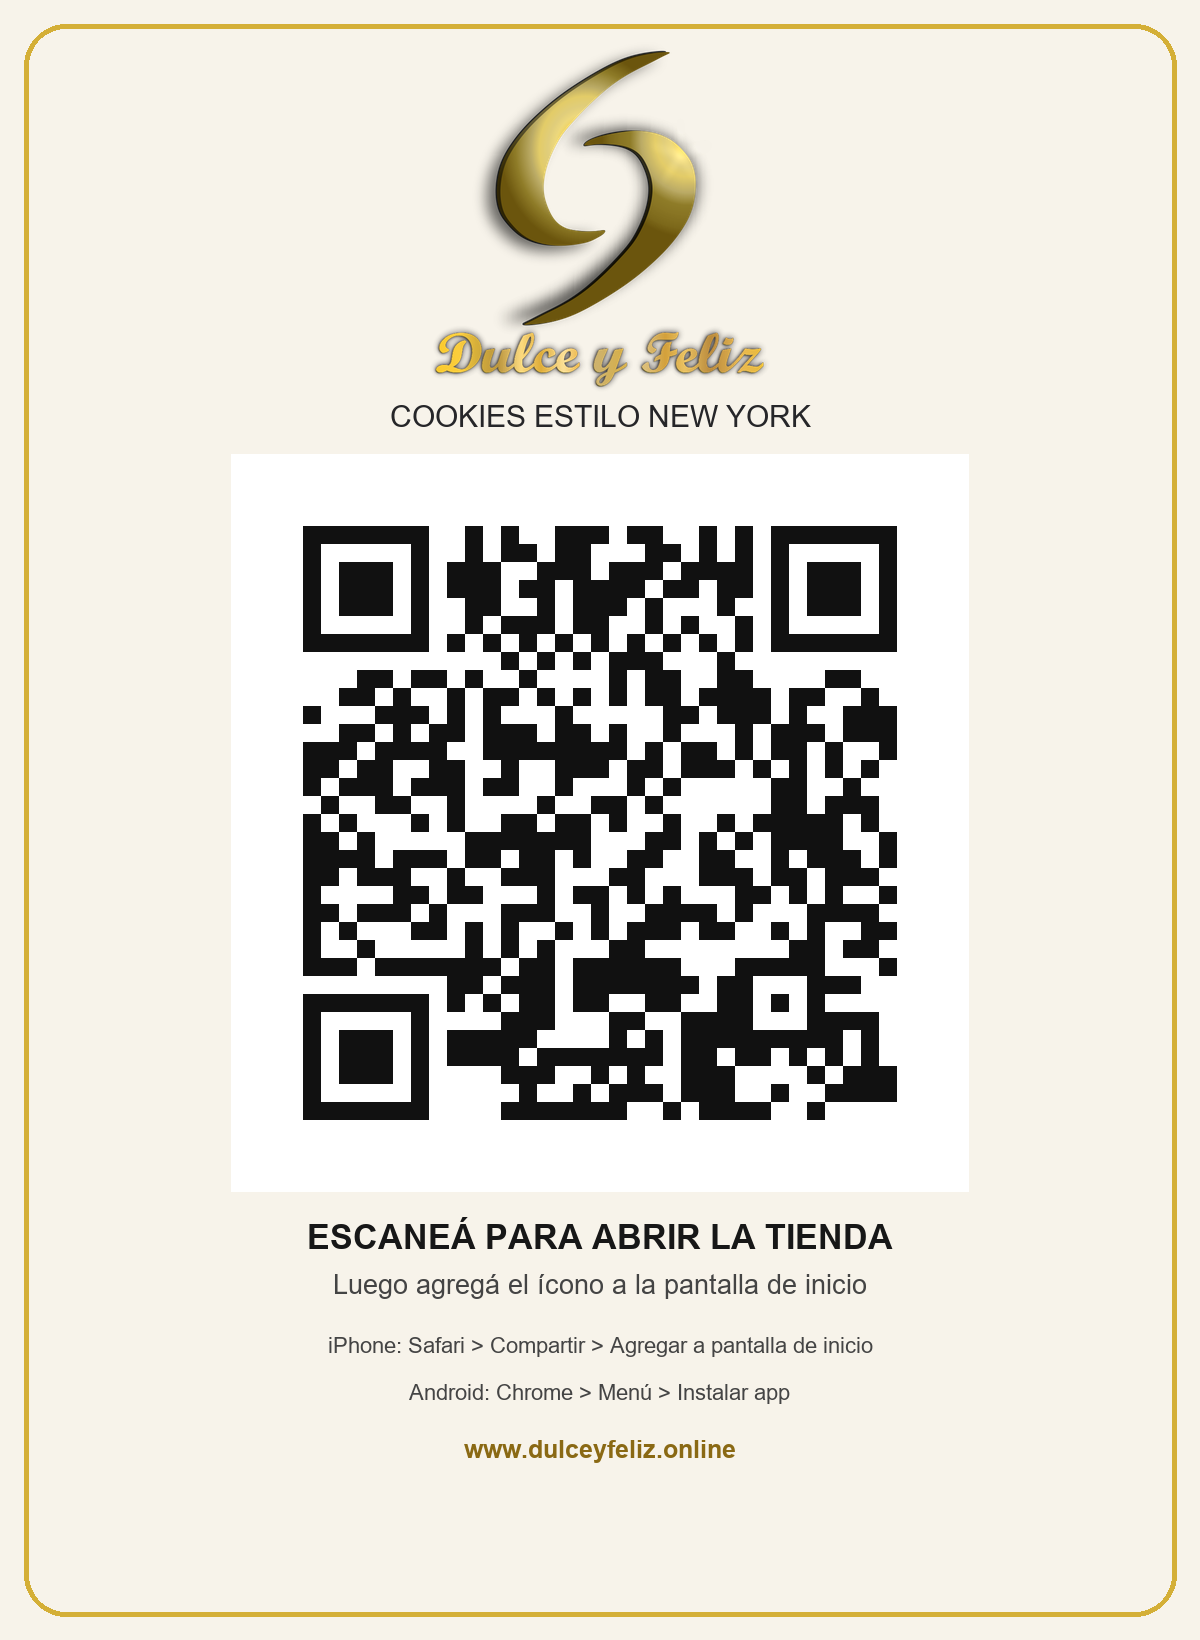
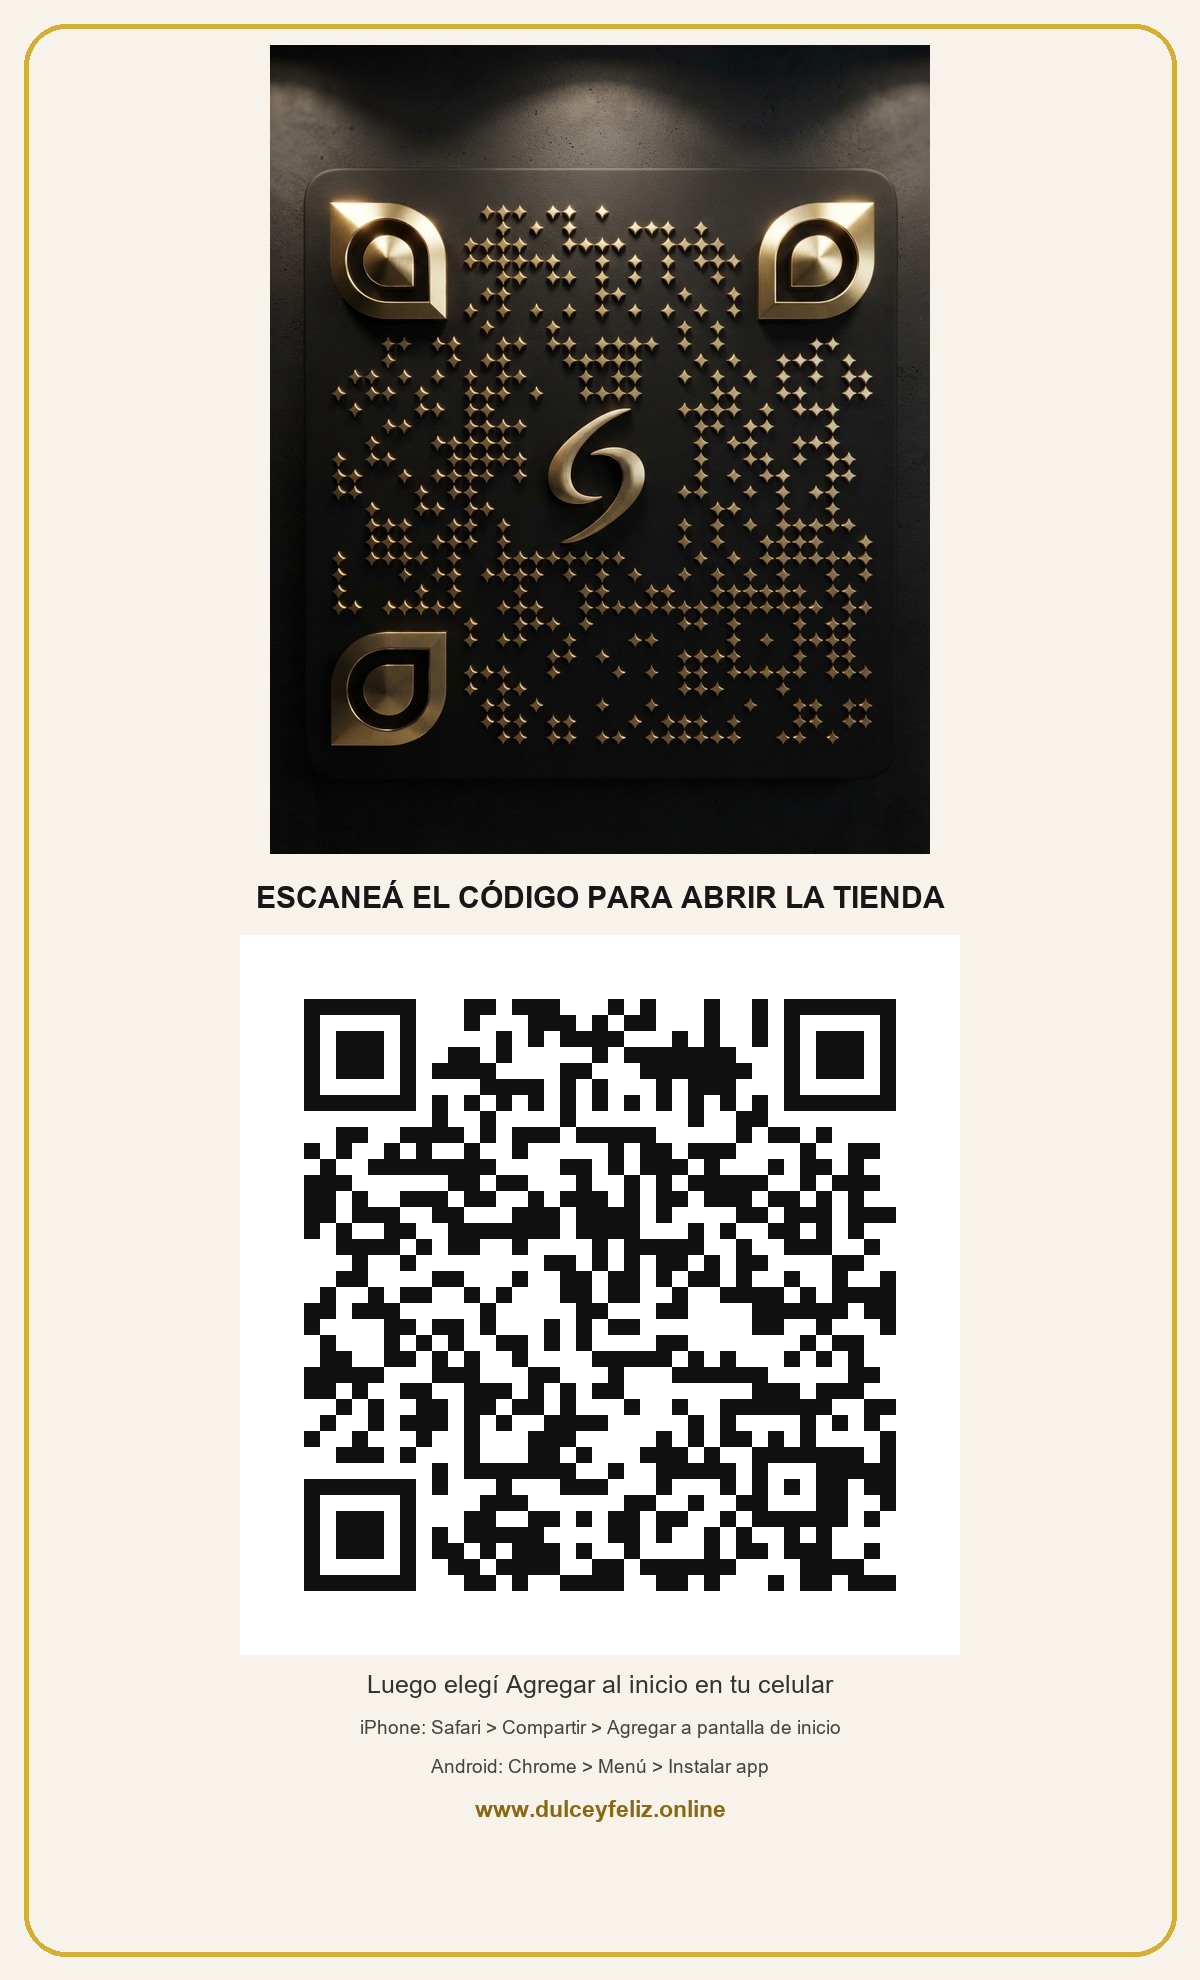
Use customer artwork for footer and QR poster
Show separate mobile and desktop footer artwork and add a scannable store QR below the supplied design.

diff --git a/index.html b/index.html
@@ -367,7 +367,10 @@
 
   <footer class="border-t border-gold/20 bg-[#0B0B0C] py-8 relative">
     <div class="mx-auto mb-8 flex max-w-7xl flex-col items-center gap-3 px-4 text-center sm:px-6 lg:px-8">
-      <img src="Logo Dulce y Feliz Logo Nuevo.png" alt="Dulce y Feliz - Repostería artesanal" class="h-44 w-44 sm:h-52 sm:w-52 object-contain drop-shadow-lg" />
+      <picture class="block w-full">
+        <source media="(max-width: 639px)" srcset="/logo-footer-mobile.webp" />
+        <img src="/logo-footer-desktop.webp" alt="Dulce y Feliz - Repostería artesanal" class="mx-auto block h-auto w-full max-w-[11rem] object-contain sm:max-w-3xl" />
+      </picture>
       <p class="text-xs tracking-wide text-gray-400">Esta página fue elaborada por publicidaudiovisual@gmail.com</p>
     </div>
     <div class="mx-auto flex max-w-7xl flex-col items-center justify-between gap-4 px-4 text-center text-sm text-gray-400 sm:flex-row sm:text-left sm:px-6 lg:px-8">

diff --git a/GUIA-DESPLIEGUE.md b/GUIA-DESPLIEGUE.md
@@ -27,7 +27,7 @@ No escribas estos secretos en el código ni los compartas por chat. Después de 
 
 La tienda puede agregarse a la pantalla de inicio como una aplicación web (PWA), sin pasar por App Store o Play Store. El manifiesto, los íconos y el service worker se publican junto al sitio; el service worker solo conserva esos recursos de instalación y no almacena pedidos ni datos de clientes. Al abrir el sitio aparece un aviso flotante para instalar o agregar el acceso. Si el cliente lo descarta, se oculta durante 30 días en ese dispositivo.
 
-El archivo `QR-Tienda-Dulce-y-Feliz.png` abre `https://www.dulceyfeliz.online/`. Para compartir un enlace que vuelva a mostrar el aviso aunque se haya cerrado antes, se puede enviar `https://www.dulceyfeliz.online/?instalar=1`. El navegador no permite lanzar la instalación sin una acción del cliente: debe tocar **Agregar al inicio** y confirmar. En iPhone, se indican los pasos de Safari → **Compartir** → **Agregar a pantalla de inicio**; en Android compatible, se abre el aviso nativo de instalación.
+El archivo `QR-Tienda-Dulce-y-Feliz.png` conserva el diseño visual de la marca e incluye debajo un QR funcional que abre `https://www.dulceyfeliz.online/?instalar=1`. Para compartir un enlace que vuelva a mostrar el aviso aunque se haya cerrado antes, se puede enviar esa misma URL. El navegador no permite lanzar la instalación sin una acción del cliente: debe tocar **Agregar al inicio** y confirmar. En iPhone, se indican los pasos de Safari → **Compartir** → **Agregar a pantalla de inicio**; en Android compatible, se abre el aviso nativo de instalación.
 
 ### Registro de pedidos y descuento de inventario
 
